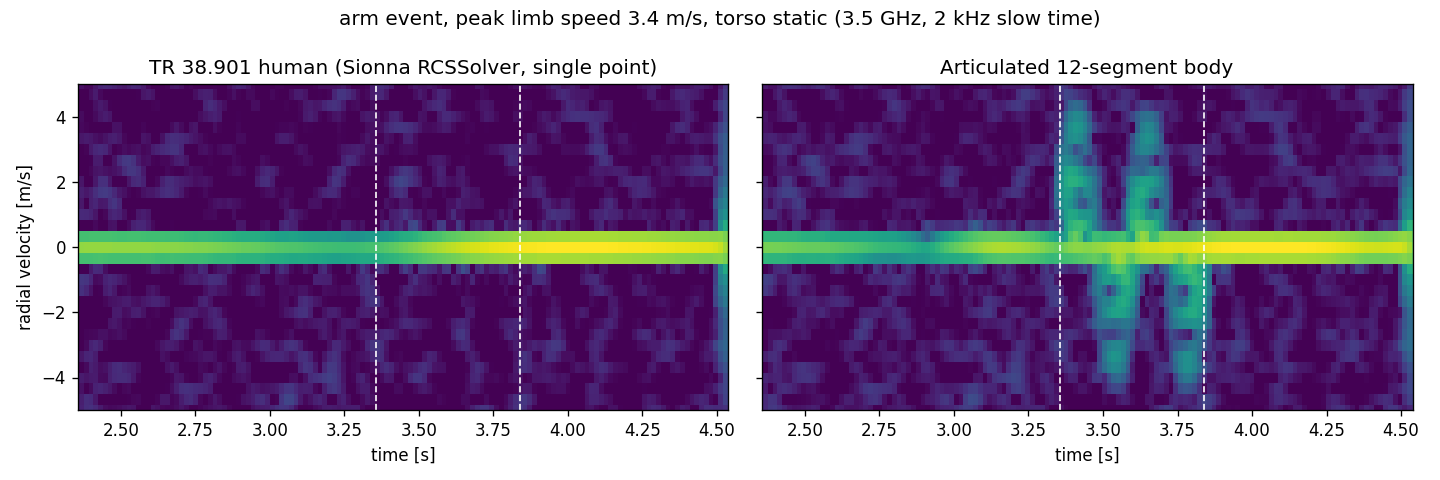
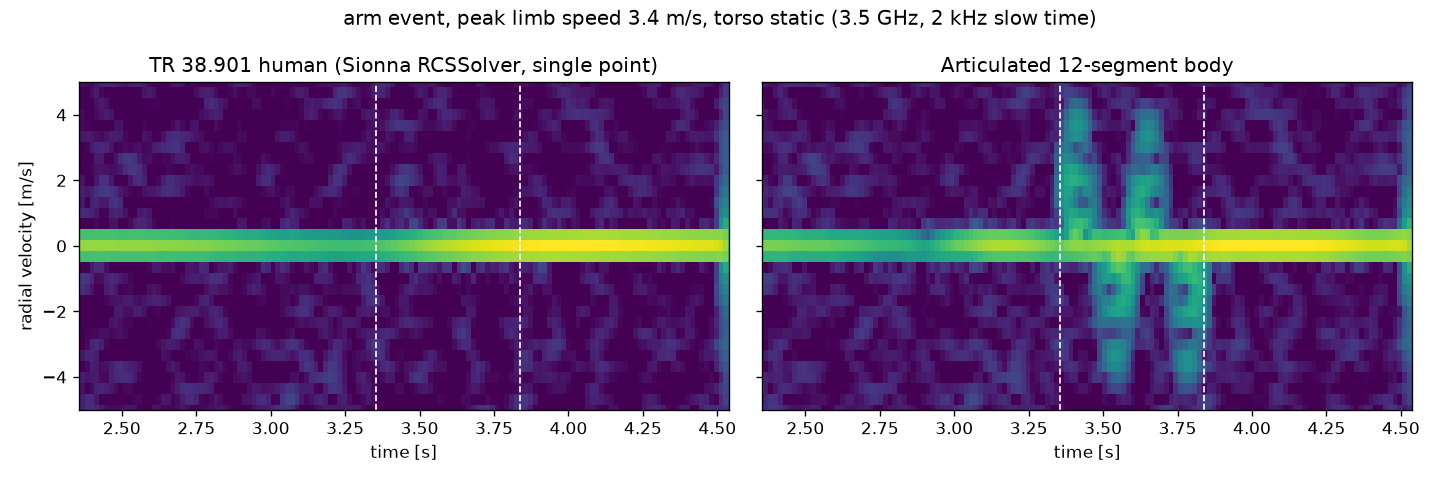
Add Sionna validation record; regenerate motivating figure
17/17 tests pass with nothing skipped (sionna-rt 2.2.0, CUDA variant on H100 GPU 1).
stitching corr 0.999971; RCSSolver equivalence corr 0.99998, power ratio 1.00005.

diff --git a/VERIFICATION.md b/VERIFICATION.md
@@ -1,0 +1,33 @@
+# Sionna validation — verification run (2026-09-30)
+
+## Environment
+- Host (not a Docker container): Linux 6.8.0-124, AMD EPYC 9354 (64 threads), 2× NVIDIA H100 NVL,
+  driver 580.126.09. Run pinned to host GPU 1 (`CUDA_VISIBLE_DEVICES=1`), the card used in
+  `docker-compose.yml`. GPU 0 was busy with an unrelated job.
+- Python 3.12.9 in an isolated venv created from miniconda base. This is **not** `/usr/bin/python3`
+  (3.10.12): sionna-rt 2.2.0 imports `typing.Self`, which needs Python ≥ 3.11, so it cannot
+  import there. The user-site `sionna 1.2.1` / `sionna-rt 1.2.1` install (no `sionna.rt.rcs`)
+  was left untouched.
+- sionna-rt 2.2.0, mitsuba 3.9.1, drjit 1.5.0, numpy 2.5.3, scipy 1.18.1, matplotlib 3.11.2,
+  pytest 9.1.1.
+- Mitsuba variant from `mdsense.channel.select_mitsuba_variant()`: **`cuda_ad_mono_polarized`**.
+  The LLVM fallback is unavailable on this host (system LLVM 13; Dr.Jit needs ≥ 15).
+
+## Tests
+`PYTHONPATH=. python -m pytest -q -s tests` → **17 passed, 0 skipped, 0 failed** (34.2 s).
+
+| Check | Result | README value | Test bound | Runtime |
+|---|---|---|---|---|
+| `[stitching]` per-slot vs snapshot-stitched, corr | **0.999971** | 0.99997 | > 0.999 | 2.7 s |
+| `[equivalence]` analytic twin vs RCSSolver, corr (dynamic) | **0.99998** | 0.99998 | > 0.98 | 29.8 s |
+| `[equivalence]` power ratio | **1.00005** | 1.0001 | \|r − 1\| < 0.02 | (same test) |
+
+## Figure
+`scripts/fig_3gpp_vs_articulated.py --out figures` regenerated
+`figures/fig_3gpp_vs_articulated.png` (1440×480 PNG, 50.6 s). It renders correctly and matches
+the previous version visually: arm event, 3.4 m/s peak limb speed, no limb micro-Doppler for the
+TR 38.901 single-point human, clear limb micro-Doppler for the articulated body. The file is not
+byte-identical: about 15 % of pixels differ, which was not investigated further and is plausibly
+caused by the newer plotting stack.
+
+No code, config, `results/`, `analysis/`, or test-split data was changed or loaded; `run_pilot.py` was not run.
